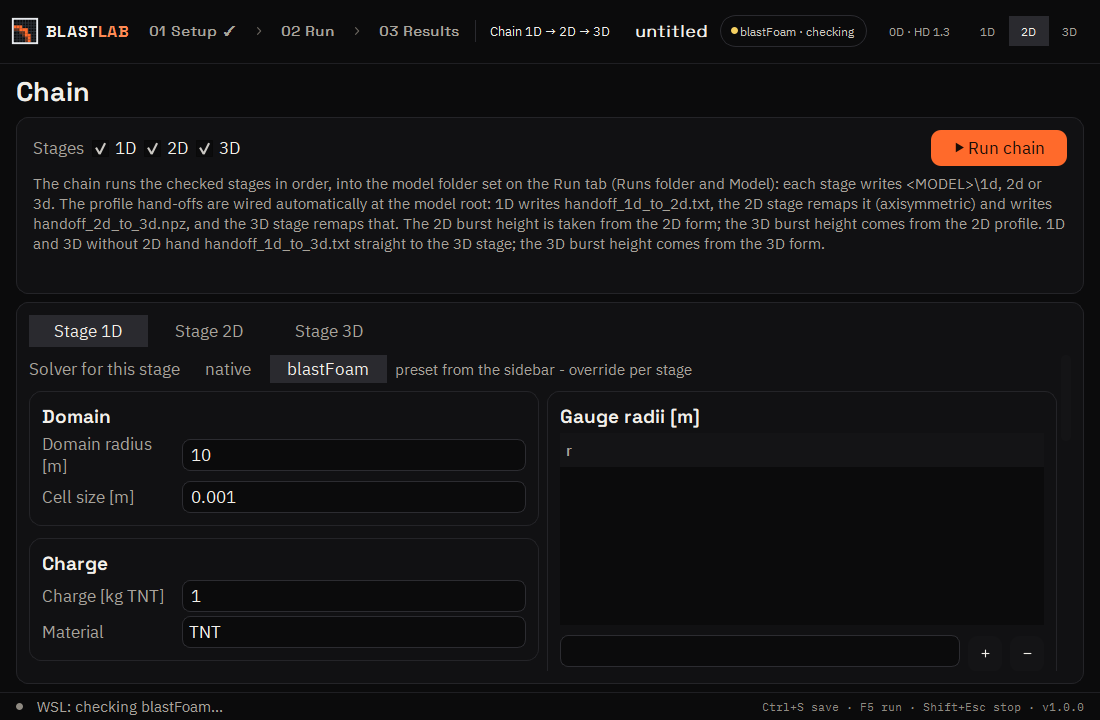
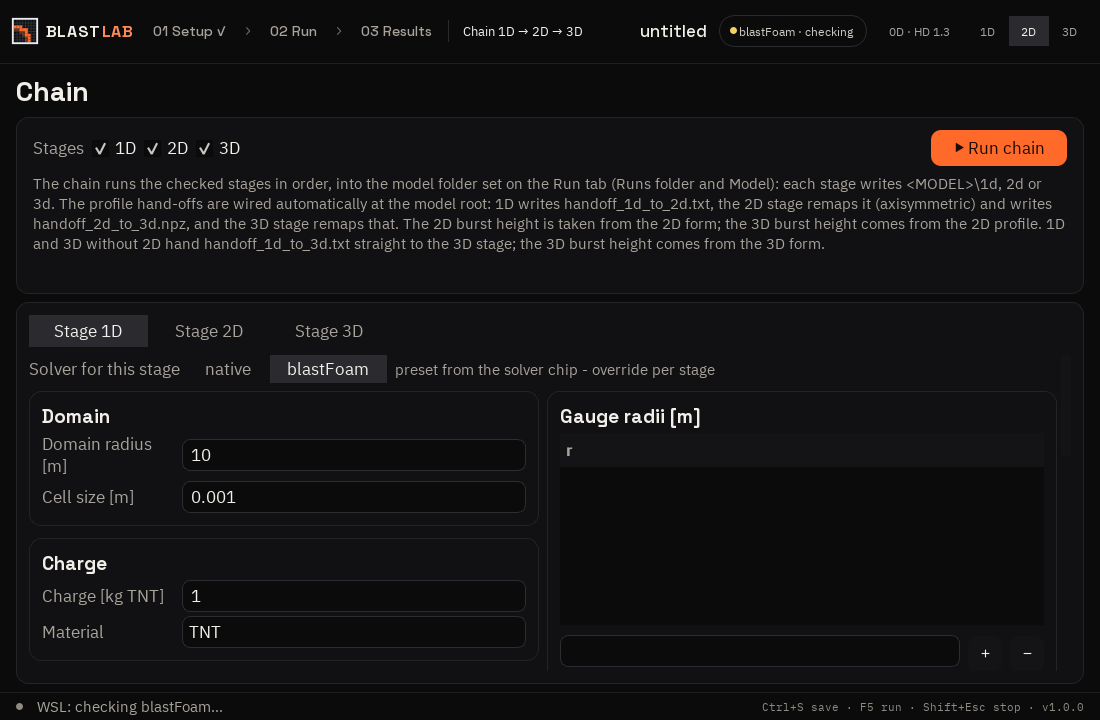
fix(verify): status message outranks the shortcuts hint; frame leftovers (GUI-3)
Verification of batch 2026-09-29-gui-frame found one regression: the
28 px status bar gave the shortcuts label the width the old full-width
status row had, so a long notify() message clipped - _e2e_hd13_gui.py
"the summary fits inside the label" went red (740 px text, 692 px
label). notify() now hides the Ctrl+S/F5/Shift+Esc label while a
message shows; the 12 s timer restores it (decision D13). Pinned in
test_ui_frame F7 (50 checks); _e2e_hd13_gui.py green again.

Also: the dead QFrame#sidebar QSS rule and the stale "left sidebar"
docstring in ui/__init__.py are gone, and the two Chain screenshots are
re-shot - the committed ones predated the "preset from the solver chip"
string fix in chain_panel.py.

diff --git a/blastlab/ui/app.py b/blastlab/ui/app.py
@@ -118,8 +118,7 @@ class MainWindow(QMainWindow):
         self._stack = QStackedWidget()
         column.addWidget(self._stack, 1)
         outer.addWidget(self._build_statusbar())
-        self._status_timer.timeout.connect(
-            lambda: (self._status.setText(''), self._status.setToolTip('')))
+        self._status_timer.timeout.connect(self._clear_status)
         self._case_menu = self._build_case_menu()
         self._chip_menu = self._build_chip_menu()
 
@@ -1084,7 +1083,18 @@ class MainWindow(QMainWindow):
         self._status.setText(text[:200])
         self._status.setToolTip(text)   # the whole text, past the cap
         self._status.setStyleSheet(f'color: {theme.cur(colour)};')
+        # the message outranks the shortcuts hint: hide it so the summary
+        # keeps the full label width it had before the 28 px status bar
+        # (pinned by _e2e_hd13_gui: 'the summary fits inside the label');
+        # _clear_status restores it with the message (decision D13)
+        self._keys_lbl.setVisible(False)
         self._status_timer.start()
+
+    def _clear_status(self):
+        """The 12 s timer: clear the message, restore the shortcuts."""
+        self._status.setText('')
+        self._status.setToolTip('')
+        self._keys_lbl.setVisible(True)
 
     def _log_threadsafe(self, text):
         """Log sink for worker threads (cleanup, viewer link)."""

diff --git a/blastlab/tests/test_ui_frame.py b/blastlab/tests/test_ui_frame.py
@@ -356,8 +356,15 @@ def main():
           and win._status.styleSheet() == f'color: {theme.cur("warn")};'
           and win._status_timer.isActive(),
           f'{win._status.text()!r} {win._status.styleSheet()!r}')
-    win._status.setText('')
+    check('the message outranks the shortcuts hint (decision D13): '
+          'the keys label yields its width',
+          not win._keys_lbl.isVisible())
     win._status_timer.stop()
+    win._clear_status()
+    pump(20)
+    check('and the timer clear restores it',
+          win._keys_lbl.isVisible() and win._status.text() == ''
+          and win._status.toolTip() == '')
 
     print('\nF8: dimension control and dark mode')
     win.topbar.dim_seg.changed.emit('3D')

diff --git a/blastlab/ui/__init__.py b/blastlab/ui/__init__.py
@@ -1,8 +1,9 @@
 """blastlab Qt (PySide6) front-end.
 
-Same layout as the Tk app it replaces - left sidebar (Setup | Run |
-Results | Chain) and a content stack - with pyqtgraph for every on-screen
-plot and the 3D scenes rendered by a separate viewer process
+The redesigned frame (GUI-3, docs/gui-redesign-plan.md §4): a top bar
+with workflow pills (Setup | Run | Results | Chain) over a content
+stack, with pyqtgraph for every on-screen plot and the 3D scenes
+rendered by a separate viewer process
 (`blastlab.viz3d.process`). Nothing in this package imports pyvista or
 VTK. Launch: `python -m blastlab --qt` (the default once the port reaches
 parity with `blastlab.gui`).

diff --git a/blastlab/ui/theme.py b/blastlab/ui/theme.py
@@ -214,7 +214,6 @@ def qss(mode_name):
     QFrame#card {{ background: {p['card']}; border: 1px solid {p['border2']};
                    border-radius: {CARD_RADIUS}px; }}
     QFrame#chip {{ background: {p['card2']}; border-radius: 8px; }}
-    QFrame#sidebar {{ background: {p['bg']}; }}
     QLabel {{ background: transparent; }}
     /* the app-wide QWidget font rule overrides programmatic QFont
        family/size (measured), so the display family is set here too */

diff --git a/docs/gui-redesign-decisions.md b/docs/gui-redesign-decisions.md
@@ -19,3 +19,4 @@ next day. **Nothing here blocked the work.** Each item says what was done; answe
 | D10 | frame | The status-bar "context default" (`<case>.json has unsaved changes`). Folding it into `self._status` would have collided with the pinned notify()/12-s-timer semantics (test_ui_char_hd13_run). | Its own faint label beside `self._status`; `self._status` keeps its exact old semantics. |
 | D11 | frame | Where `By Ofek Rotem` and the version now live. | Version in the status bar (`… · v1.0.0`, per the board footer); the credit as a disabled line at the bottom of the case menu. |
 | D12 | frame | Board details a single QPushButton cannot render: the dimmer step number inside a pill (`01` at 12 px / 60 % opacity) and the two-tone case row. | Pills carry `01 Setup` in one colour (Space Grotesk 600 14 px); `● unsaved` is a separate warn-coloured label beside the case name. |
+| D13 | frame (verify) | The 28 px status bar's shortcuts label took the width the old full-width status row had, so a long `notify()` message (the HD 1.3 done summary, 740 px) clipped — `_e2e_hd13_gui.py` "the summary fits inside the label" went red. | While `self._status` shows a message, the `Ctrl+S save · F5 run · …` label is hidden; the 12 s timer restores it with the clear. The board's idle footer is unchanged. |
